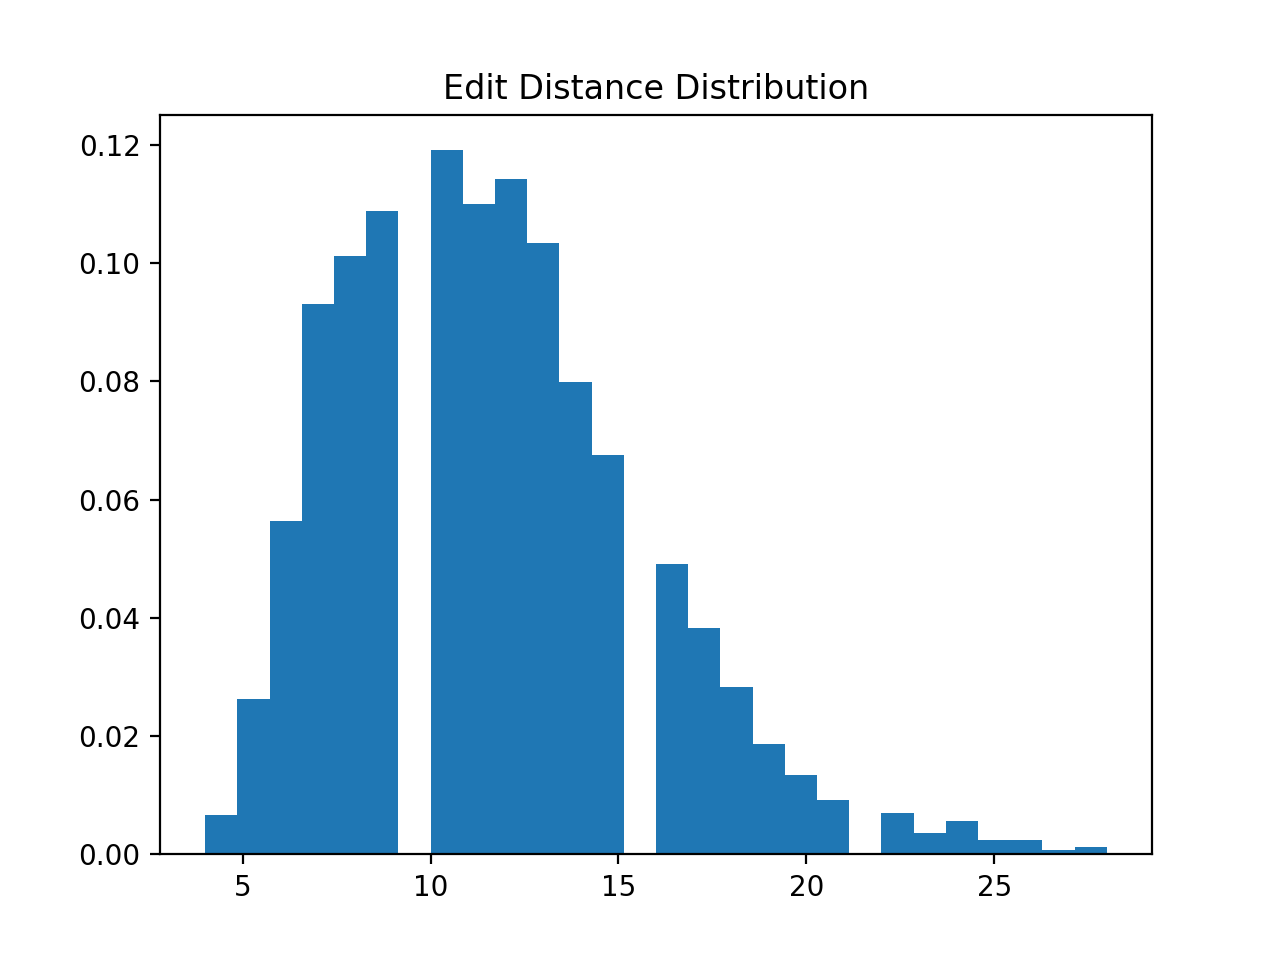
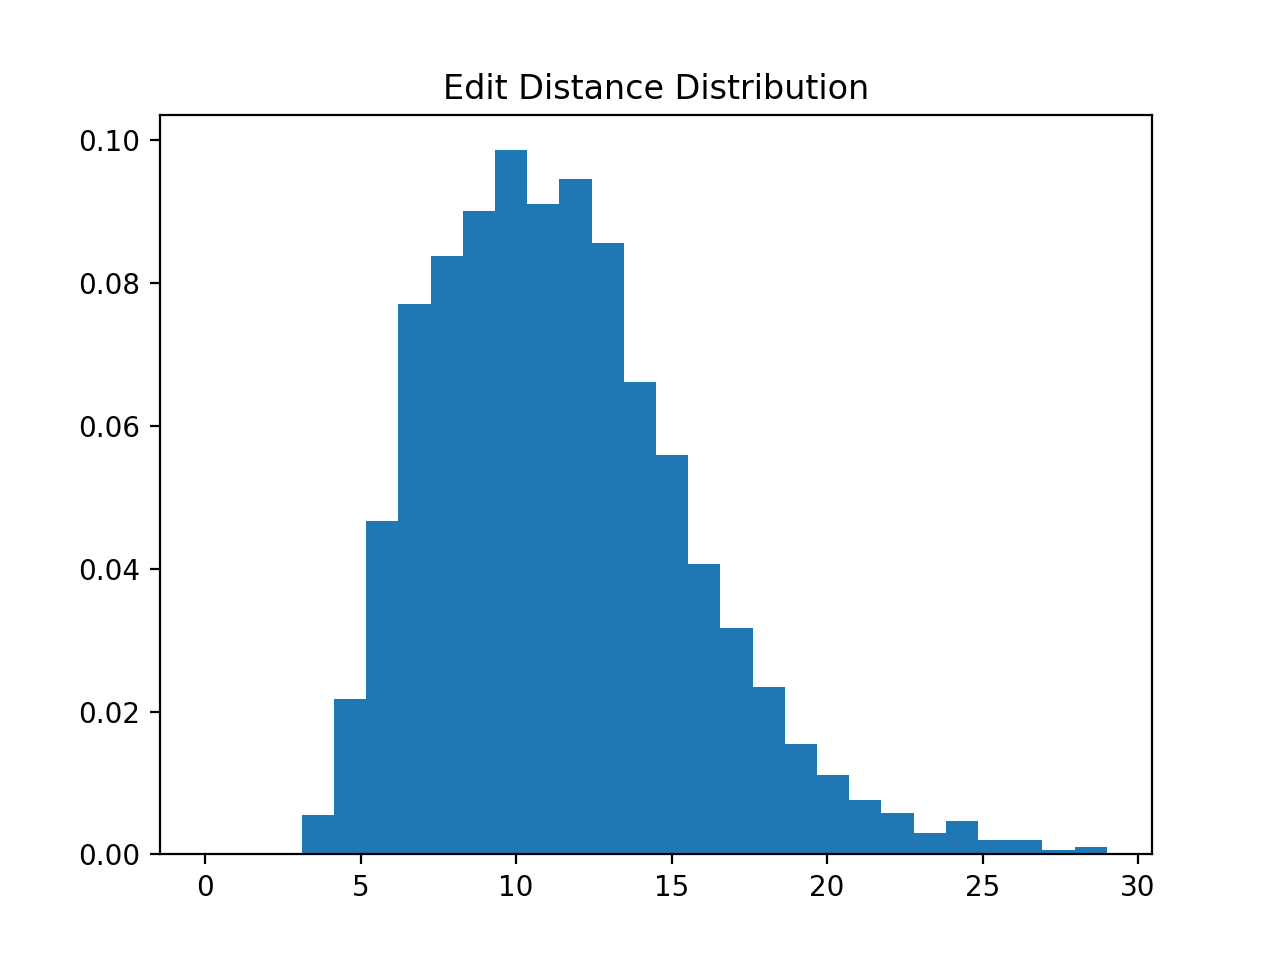
revised histograms

diff --git a/ConceptualDependency/msr_data.py b/ConceptualDependency/msr_data.py
@@ -60,17 +60,18 @@ file.close()
 # edit histogram
 edit_bin_max = np.max(edit_distances)
 
-plt.hist(edit_distances, density=True, bins=edit_bin_max)
+plt.hist(edit_distances, density=True, bins=edit_bin_max, range=(0, edit_bin_max+1))
 plt.title("Edit Distance Distribution")
 plt.show()
 
-edit_hist = np.histogram(edit_distances, bins=edit_bin_max)
+edit_hist = np.histogram(edit_distances, bins=edit_bin_max, range=(0, edit_bin_max+1))
 
 edit_hist_df = pd.DataFrame(edit_hist)
 edit_hist_df.to_csv('../msr_outputs/edit_histogram.csv', index=False)
 
 # jaccard histogram
-jaccard_bin_max = math.ceil(np.max(jaccard_distances) / 0.05)
+j_distance_max = np.max(jaccard_distances)
+jaccard_bin_max = int(math.ceil(j_distance_max) / 0.05)
 plt.hist(jaccard_distances, density=True, bins=jaccard_bin_max)
 plt.title("Jaccard Distance Distribution")
 plt.show()

diff --git a/ConceptualDependency/histogram.py b/ConceptualDependency/histogram.py
@@ -10,18 +10,19 @@ def edit_hist():
     # buckets = edit distances
     bin_max = np.max(data)
 
-    plt.hist(data, density=True, bins=bin_max)
+    plt.hist(data, density=True, bins=bin_max, range=(0, bin_max+1))
     plt.title("Edit Distance Distribution")
     plt.show()
-    return np.histogram(data, bins=bin_max)
+    return np.histogram(data, bins=bin_max,  range=(0, bin_max+1))
 
 
 def jaccard_hist():
     df = pd.read_csv('babel_outputs/output.csv')
     data = df["Jaccard distance"].tolist()
 
+    j_max = np.max(data)
     # buckets = 0.05
-    bin_max = math.ceil(np.max(data) / 0.05)
+    bin_max = int(math.ceil(j_max / 0.05))
 
     plt.hist(data, density=True, bins=bin_max)
     plt.title("Jaccard Distance Distribution")

diff --git a/ConceptualDependency/pmdm_data.py b/ConceptualDependency/pmdm_data.py
@@ -23,7 +23,6 @@ plt.title("most_equiv Distribution")
 plt.show()
 most_equiv_hist = pd.value_counts(most_equiv)
 most_equiv_df = pd.DataFrame(most_equiv_hist)
-most_equiv_df.columns
 most_equiv_df.to_csv('../pmdm_outputs/most_equiv_histogram', index=False)
 
 
